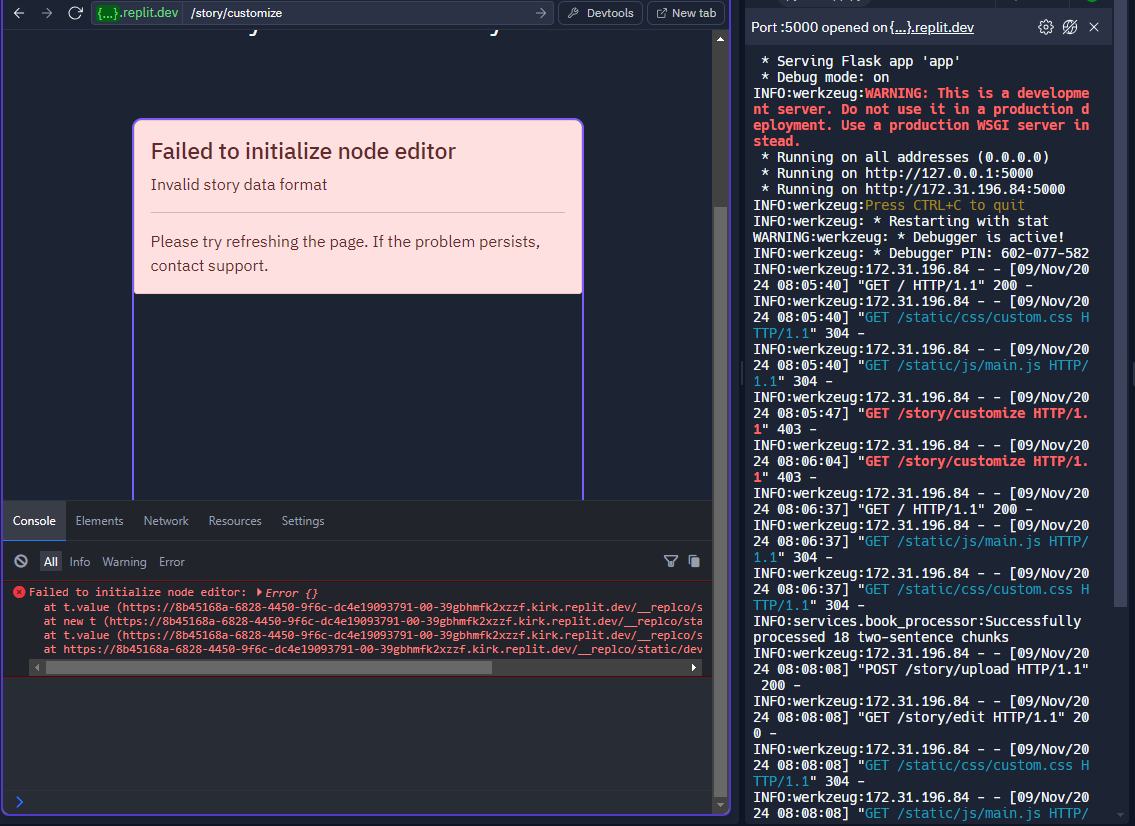
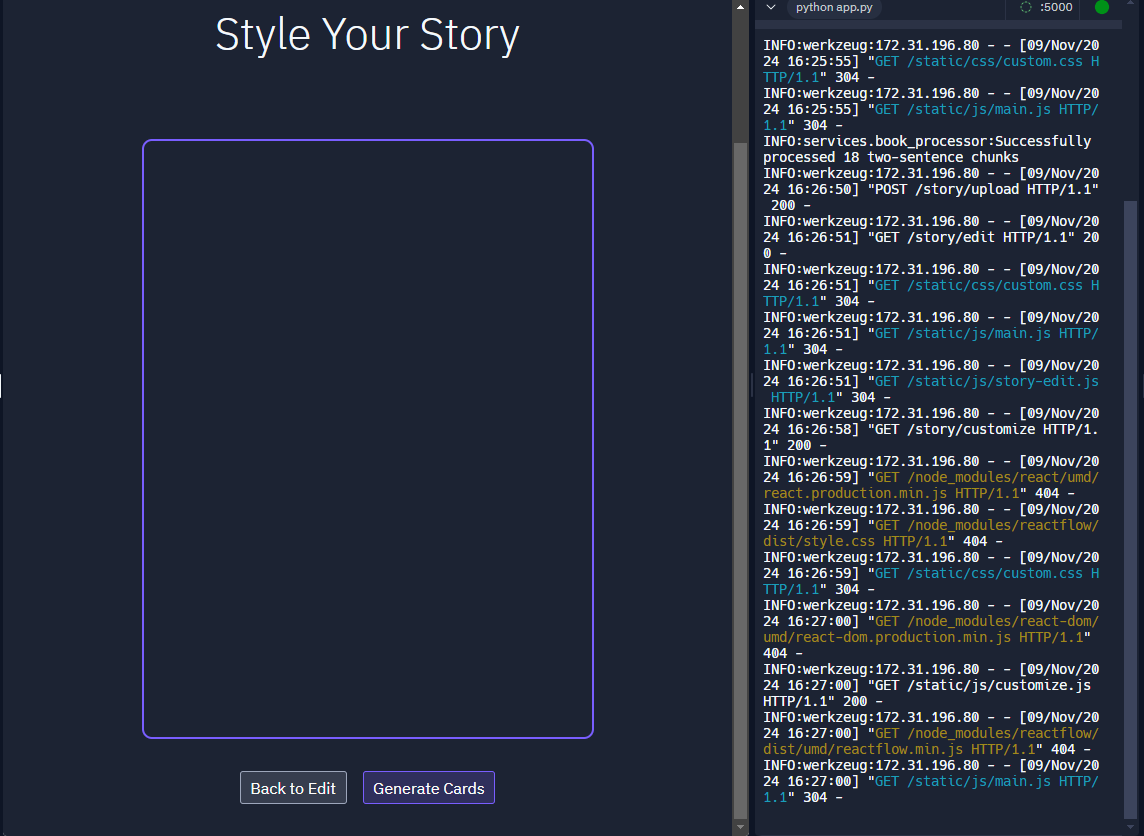
Agent query: Is the customize page now showing a proper error message when there's no story data?

diff --git a/static/js/customize.js b/static/js/customize.js
@@ -28,6 +28,11 @@ class ErrorBoundary extends React.Component {
 
 // Node editor component
 function NodeEditor({ storyData }) {
+    if (!window.React || !window.ReactFlow) {
+        console.error('Required libraries not loaded');
+        throw new Error('Required libraries not loaded. Please refresh the page.');
+    }
+
     const [nodes, setNodes] = React.useState([]);
     const [edges, setEdges] = React.useState([]);
     const [initialized, setInitialized] = React.useState(false);
@@ -39,6 +44,7 @@ function NodeEditor({ storyData }) {
         }
 
         try {
+            console.log('Initializing nodes with story data:', storyData);
             const paragraphNodes = storyData.paragraphs.map((paragraph, index) => ({
                 id: `p${index}`,
                 type: 'default',
@@ -125,6 +131,7 @@ function NodeEditor({ storyData }) {
                 animated: true
             }));
 
+            console.log('Setting up nodes and edges:', { paragraphNodes, styleNodes, newEdges });
             setNodes([...paragraphNodes, ...styleNodes]);
             setEdges(newEdges);
             setInitialized(true);
@@ -140,8 +147,8 @@ function NodeEditor({ storyData }) {
         );
     }
 
-    return React.createElement(window.ReactFlow.ReactFlowProvider, null,
-        React.createElement(window.ReactFlow.ReactFlow, {
+    return React.createElement(ReactFlow.ReactFlowProvider, null,
+        React.createElement(ReactFlow.ReactFlow, {
             nodes,
             edges,
             fitView: true,
@@ -149,17 +156,35 @@ function NodeEditor({ storyData }) {
             nodesConnectable: false,
             defaultViewport: { x: 0, y: 0, zoom: 0.75 }
         },
-        React.createElement(window.ReactFlow.Background, {
+        React.createElement(ReactFlow.Background, {
             color: '#aaa',
             gap: 16,
             size: 1
         }),
-        React.createElement(window.ReactFlow.Controls))
+        React.createElement(ReactFlow.Controls))
     );
 }
 
 // Initialize application
 document.addEventListener('DOMContentLoaded', () => {
+    console.log('DOM Content Loaded, checking dependencies...');
+    
+    // Check for required dependencies
+    if (!window.React) {
+        console.error('React not loaded');
+        return;
+    }
+    
+    if (!window.ReactDOM) {
+        console.error('ReactDOM not loaded');
+        return;
+    }
+    
+    if (!window.ReactFlow) {
+        console.error('ReactFlow not loaded');
+        return;
+    }
+
     const container = document.getElementById('node-editor');
     if (!container) {
         console.error('Node editor container not found');
@@ -223,6 +248,7 @@ document.addEventListener('DOMContentLoaded', () => {
         if (!storyData || !Array.isArray(storyData.paragraphs)) {
             throw new Error('Invalid story data format: Expected array of paragraphs');
         }
+        console.log('Successfully parsed story data:', storyData);
     } catch (error) {
         console.error('Failed to parse story data:', error);
         root.innerHTML = `
@@ -239,12 +265,14 @@ document.addEventListener('DOMContentLoaded', () => {
     // Initialize editor with proper error handling
     const initializeEditor = () => {
         try {
+            console.log('Initializing React components...');
             ReactDOM.render(
                 React.createElement(ErrorBoundary, null,
                     React.createElement(NodeEditor, { storyData })
                 ),
                 root
             );
+            console.log('React components initialized successfully');
         } catch (error) {
             console.error('Failed to initialize node editor:', error);
             root.innerHTML = `
@@ -258,6 +286,6 @@ document.addEventListener('DOMContentLoaded', () => {
         }
     };
 
-    // Initialize immediately since we're using node_modules now
+    // Initialize editor immediately
     initializeEditor();
 });

diff --git a/templates/story/customize.html b/templates/story/customize.html
@@ -16,16 +16,14 @@
 {% endblock %}
 
 {% block scripts %}
-<!-- Load React from node_modules -->
-<script src="/node_modules/react/umd/react.production.min.js"></script>
-<script src="/node_modules/react-dom/umd/react-dom.production.min.js"></script>
+<!-- Load React first -->
+<script src="https://unpkg.com/react@17/umd/react.production.min.js"></script>
+<script src="https://unpkg.com/react-dom@17/umd/react-dom.production.min.js"></script>
 
-<!-- Add ReactFlow styles -->
-<link href="/node_modules/reactflow/dist/style.css" rel="stylesheet" />
+<!-- Add ReactFlow styles and script -->
+<link href="https://unpkg.com/reactflow@11/dist/style.css" rel="stylesheet" />
+<script src="https://unpkg.com/reactflow@11/dist/umd/reactflow.min.js"></script>
 
-<!-- Load ReactFlow from node_modules -->
-<script src="/node_modules/reactflow/dist/umd/reactflow.min.js"></script>
-
-<!-- Custom script -->
+<!-- Custom script loaded last -->
 <script src="{{ url_for('static', filename='js/customize.js') }}" type="text/javascript"></script>
 {% endblock %}

diff --git a/blueprints/story.py b/blueprints/story.py
@@ -46,7 +46,8 @@ def upload_file():
             # Store necessary data in session
             session['story_data'] = {
                 'temp_id': result['temp_id'],
-                'source_file': result['source_file']
+                'source_file': result['source_file'],
+                'paragraphs': result.get('paragraphs', [])
             }
             
             return jsonify({
@@ -87,9 +88,36 @@ def edit():
 
 @story_bp.route('/story/customize', methods=['GET'])
 def customize_story():
-    if 'story_data' not in session:
-        return redirect(url_for('index'))
-    return render_template('story/customize.html', story=session['story_data'])
+    try:
+        # Check if story data exists in session
+        if 'story_data' not in session:
+            logger.error("No story data in session")
+            return jsonify({'error': 'Please generate a story first'}), 403
+
+        story_data = session['story_data']
+        
+        # Validate story data structure
+        if not isinstance(story_data, dict) or 'paragraphs' not in story_data:
+            logger.error("Invalid story data structure")
+            return jsonify({'error': 'Invalid story data structure'}), 403
+
+        # Get data from temp storage if available
+        temp_id = story_data.get('temp_id')
+        if temp_id:
+            temp_data = TempBookData.query.get(temp_id)
+            if temp_data:
+                story_data = temp_data.data
+
+        # Ensure paragraphs exist
+        if not story_data.get('paragraphs'):
+            logger.error("No paragraphs found in story data")
+            return jsonify({'error': 'No story content found'}), 403
+
+        return render_template('story/customize.html', story=story_data)
+
+    except Exception as e:
+        logger.error(f"Error in customize route: {str(e)}")
+        return jsonify({'error': 'Server error occurred'}), 500
 
 @story_bp.route('/story/update_paragraph', methods=['POST'])
 def update_paragraph():
@@ -164,17 +192,23 @@ def update_style():
             return jsonify({'error': 'No story data found'}), 404
             
         data = request.get_json()
+        if not data or 'paragraphs' not in data:
+            return jsonify({'error': 'Invalid style data'}), 400
+
         story_data = session['story_data']
         temp_id = story_data.get('temp_id')
         
         # Update styles in session data
         for paragraph_style in data['paragraphs']:
-            index = paragraph_style['index']
+            index = paragraph_style.get('index')
+            if index is None:
+                continue
+                
             if index < len(story_data['paragraphs']):
                 story_data['paragraphs'][index].update({
-                    'image_style': paragraph_style['image_style'],
-                    'voice_style': paragraph_style['voice_style'],
-                    'mood_enhancement': paragraph_style['mood_enhancement']
+                    'image_style': paragraph_style.get('image_style', 'realistic'),
+                    'voice_style': paragraph_style.get('voice_style', 'neutral'),
+                    'mood_enhancement': paragraph_style.get('mood_enhancement', 'none')
                 })
         
         # Update temp storage if using uploaded book
@@ -186,6 +220,7 @@ def update_style():
         
         # Store updated data back in session
         session['story_data'] = story_data
+        session.modified = True
         
         return jsonify({'success': True})
         
